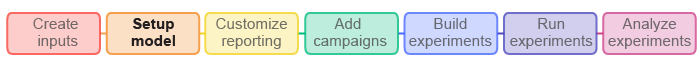
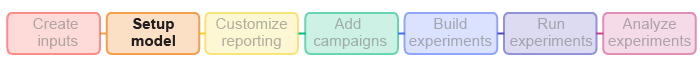
process step figure  updates

diff --git a/content/modules/_index.md b/content/modules/_index.md
@@ -4,11 +4,18 @@ title: Modules
 weight: 1
 ---
 
-## Test
-
-List of modules that supports the weekly lessons something something.
 
 
+This section provides different modules that support the weekly lessons, including Journal Club material and a detailed 'How To' guidance for EMOD.
+
+### Overview of EMOD and dtk simulation process
+</br> </br> 
 ![figure](/images/emod_dtk_overview_figure.png)
+</br> </br> 
+<!--___Overview of EMOD and dtk simulation process.___</br> -->
+_The figure shows from left to right the process of preparing a simulation over letting the simulation run to analyzing model outputs to receive results._
+___Left side:__ When preparing a simulation, input files readable in EMOD (json format) need to be generated from data, often in format of prepared input csv files. In this step a single python is used to import relevant methods (functions) from `dtk-tools` and `dtk-tools-malaria` that 1) handle the conversion to json for input files, 2) builds the simulation scenario files and 3) submits the simulation to run automatically._
+___Right side:__ After the simulation finished running one or more output files were generated by EMOD that describe transmission and disease or event related outcomes over time, per age bin or other categories selected. The analyzer functions from `dtk-tools` and `dtk-tools-malaria` are used again via import in a single python script ('Analyzer script') to obtain results in the format of csv files, summary tables or plots as specified._
+
 
 

diff --git a/content/resources/DHS/index.md b/content/resources/DHS/index.md
@@ -1,10 +1,11 @@
 ---
 date: "2019-02-11T19:27:37+10:00"
-title: Hugo Whisper
+title: DHS
 weight: 6
 ---
 
-Whisper is a minimal documentation theme built for Hugo. The design &amp; functionality is intentionally minimal.
+Here could go some of the collected DHS resources and references?
+
 
 <!--more-->
 

diff --git a/content/modules/emod-how-to/emod-how-to.md b/content/modules/emod-how-to/emod-how-to.md
@@ -7,6 +7,9 @@ output:
     toc: true
 ---
 
+
+![figure](/images/07_full_process.png)
+
 {{< toc >}}
 
 ## Create a demographics file
